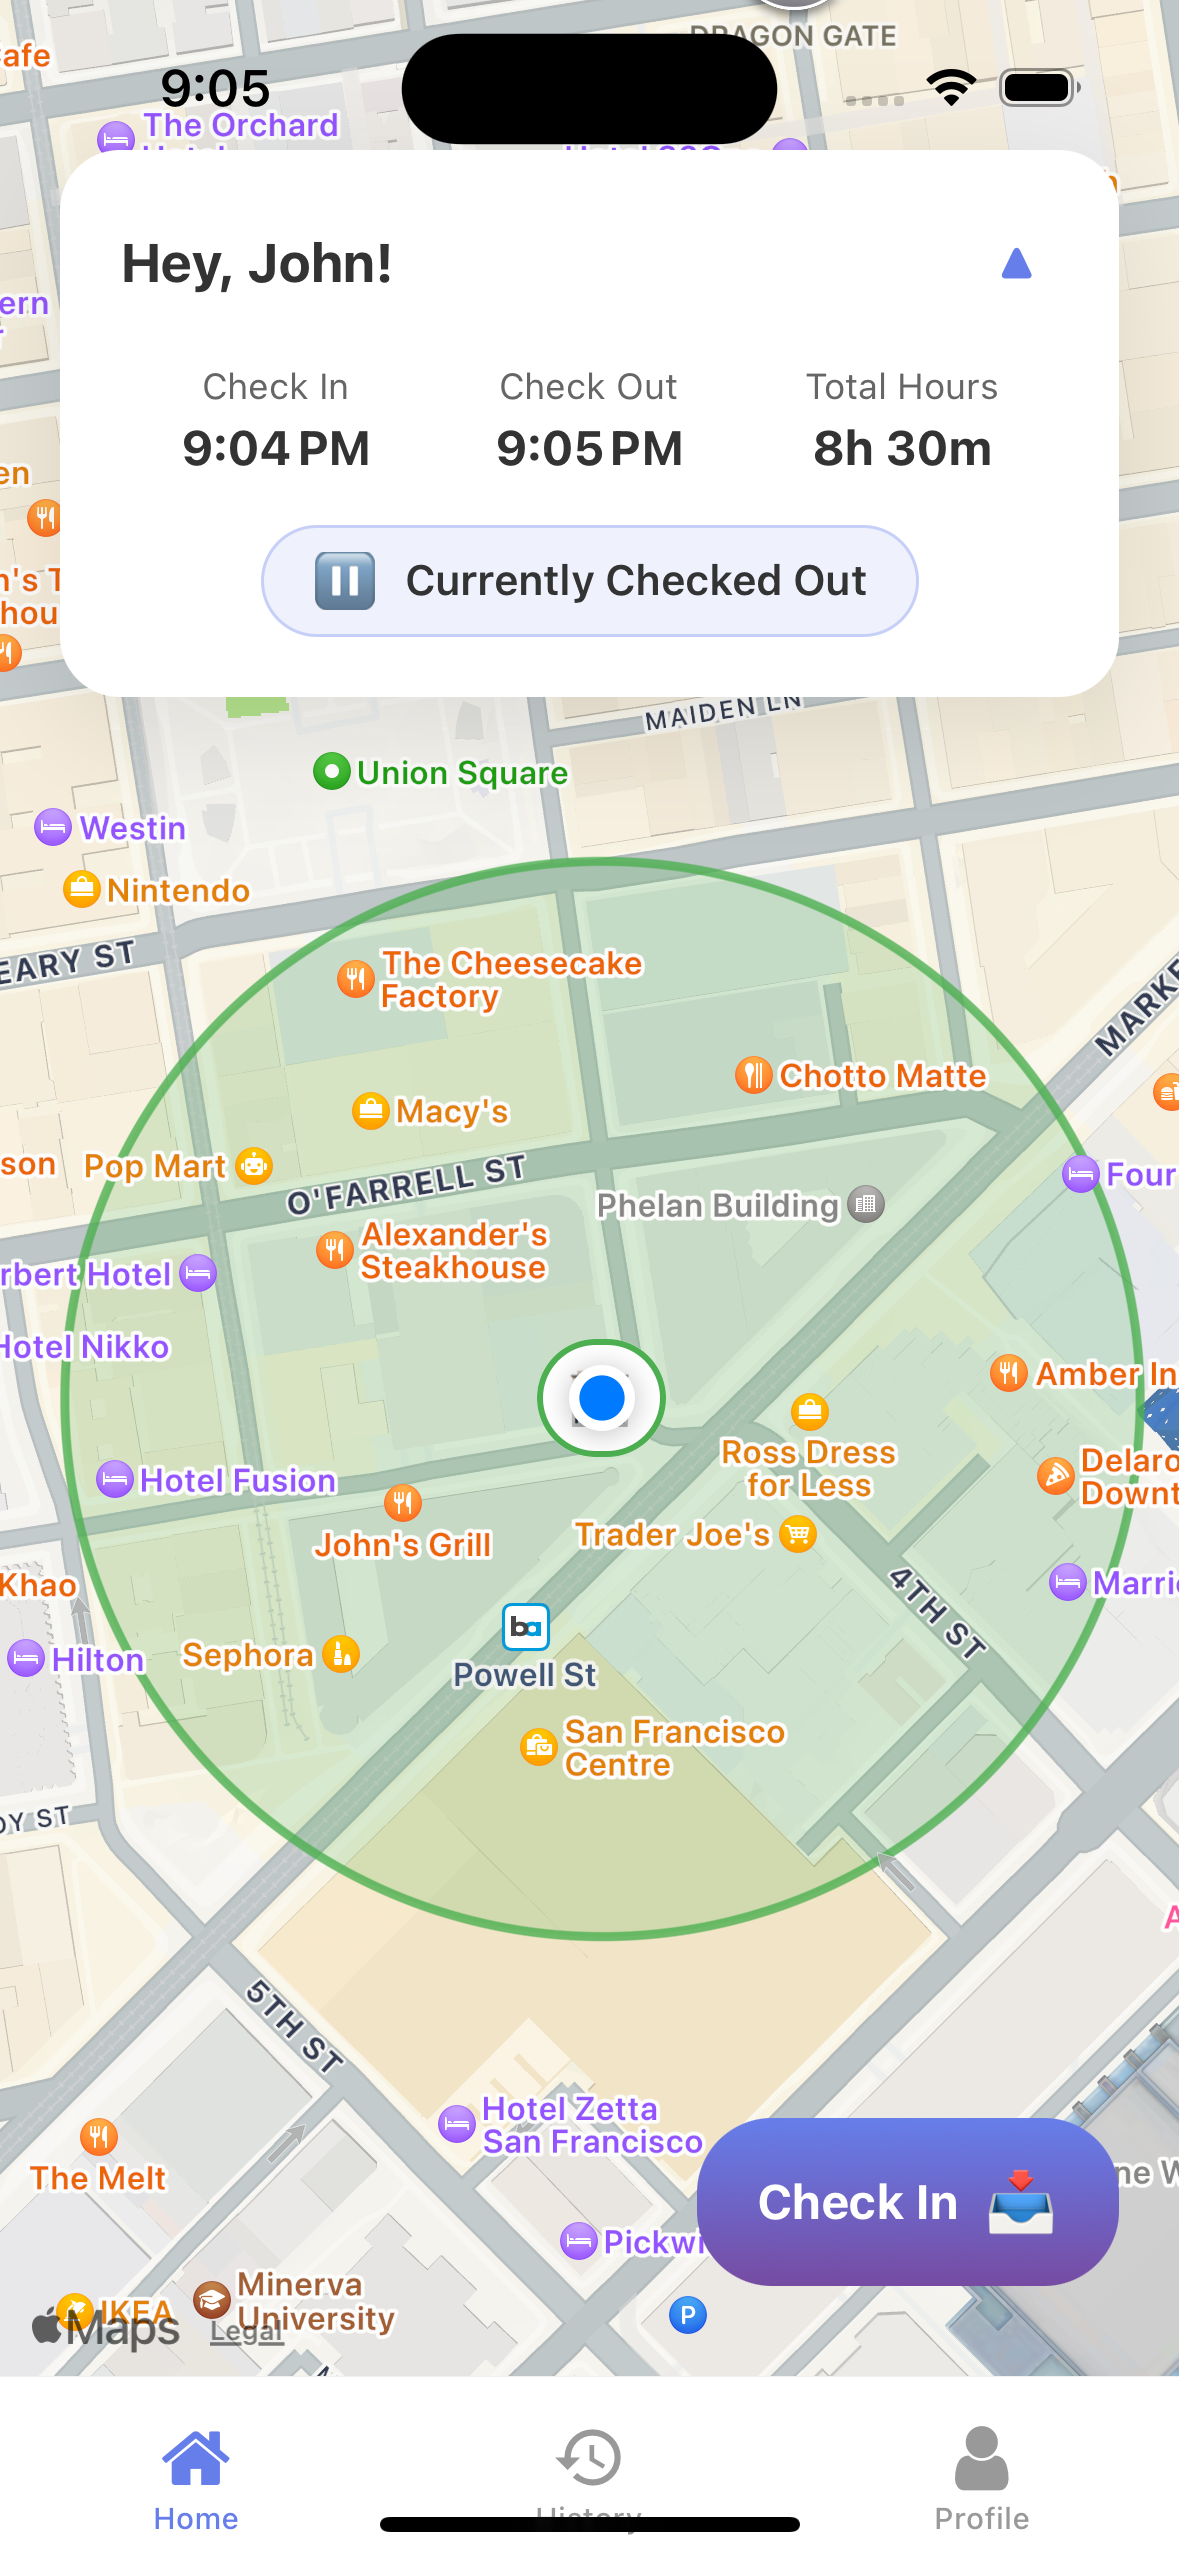
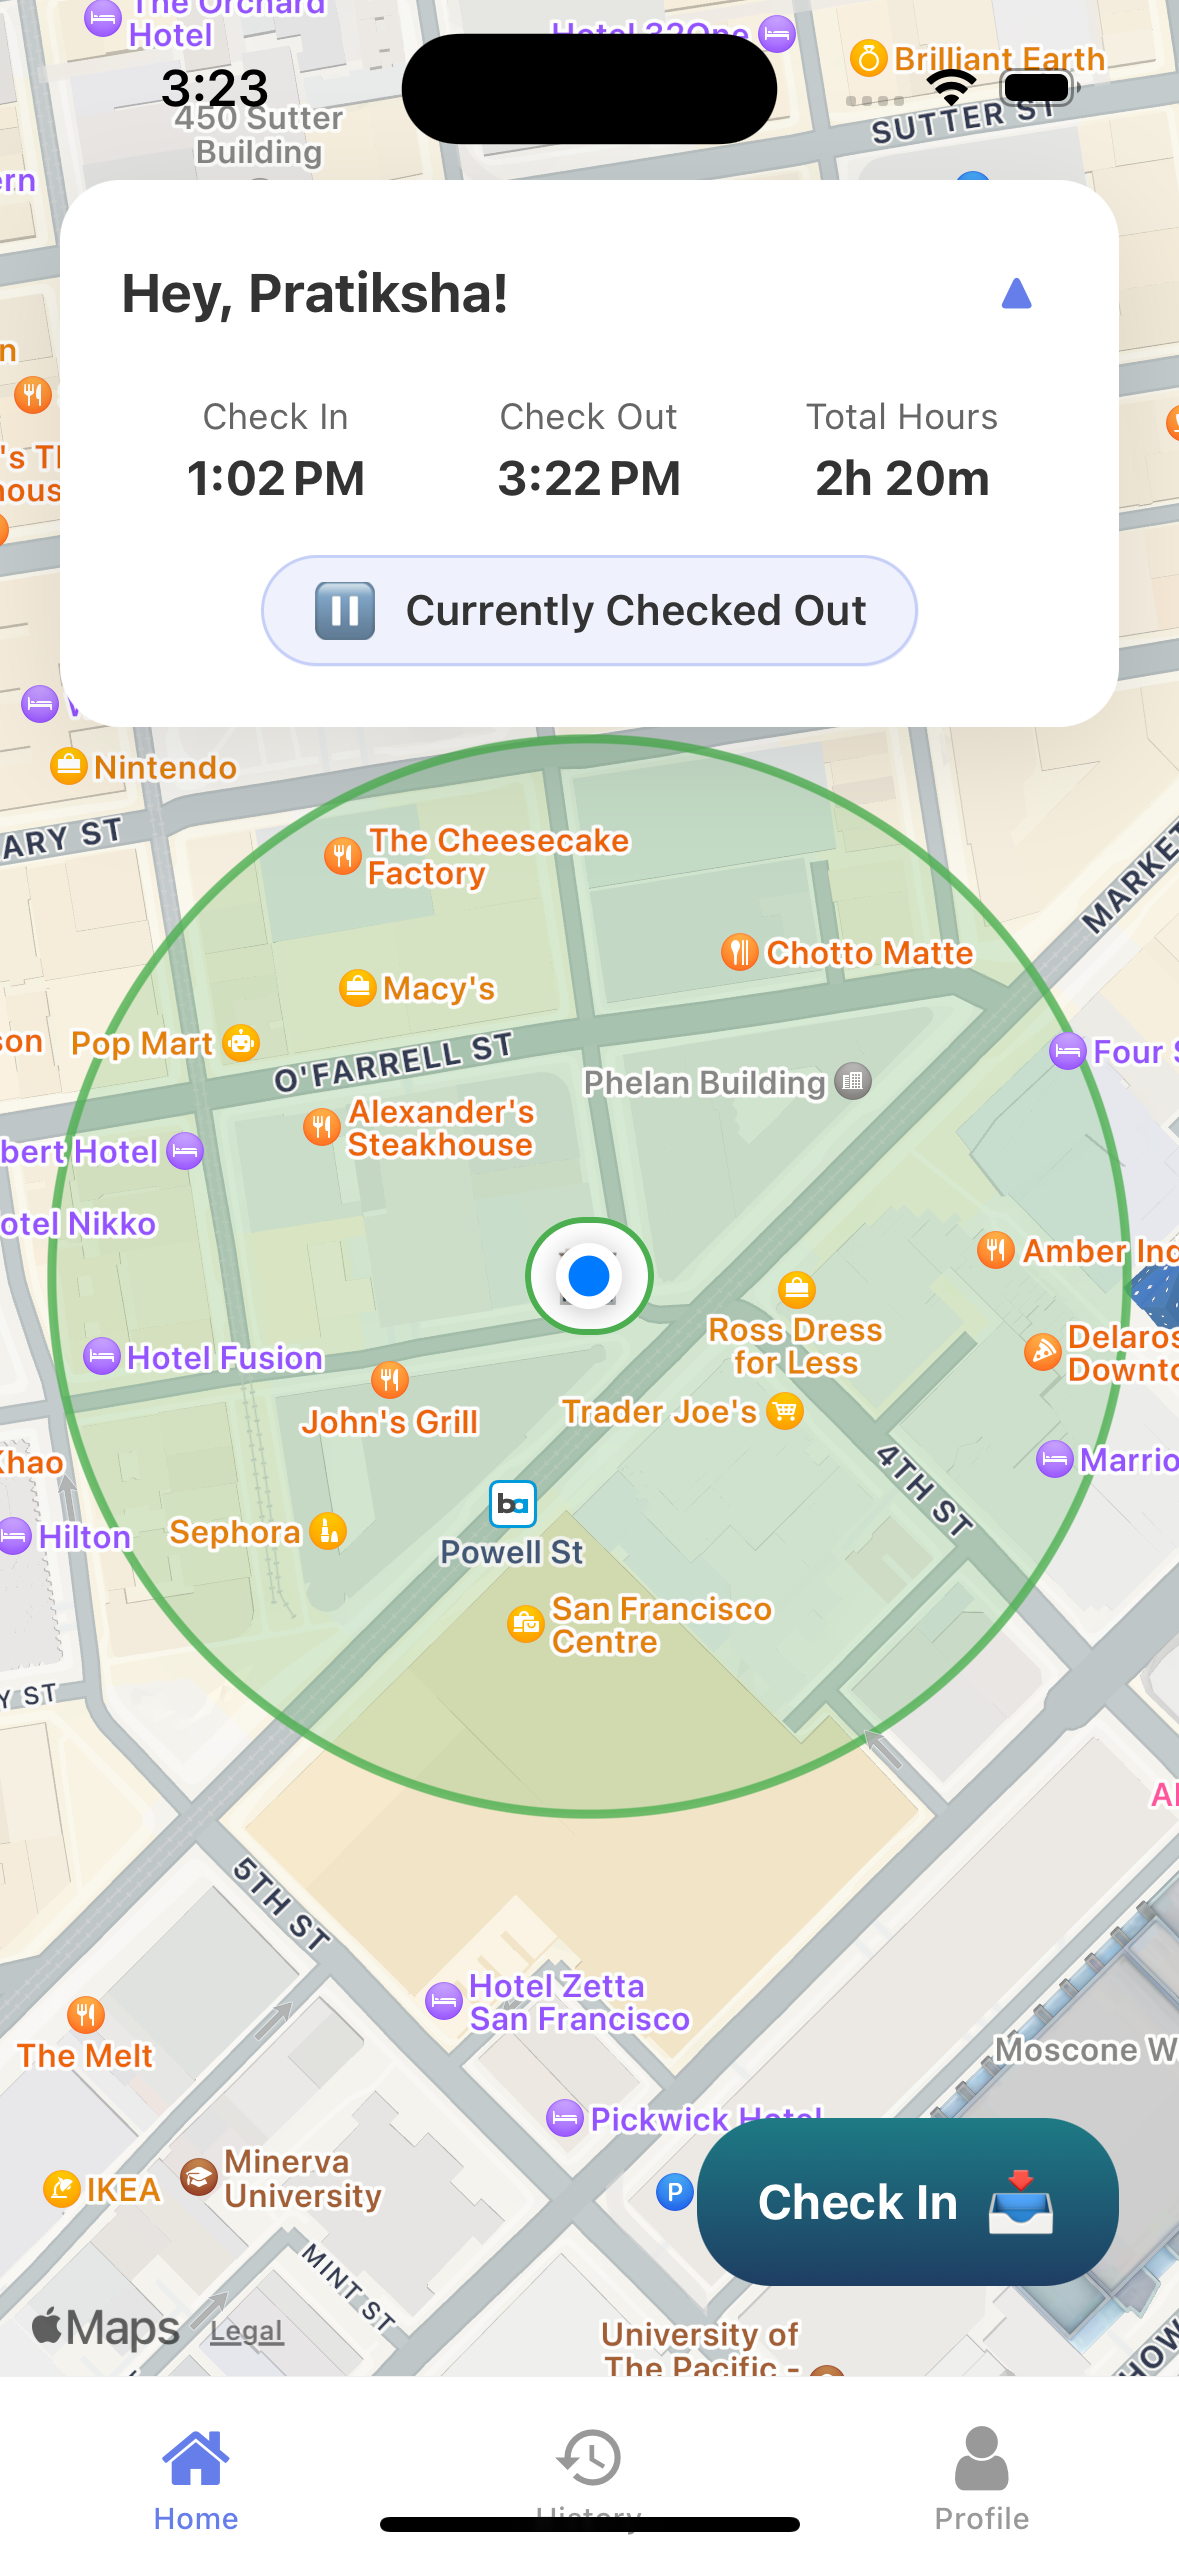
images

diff --git a/app/(tabs)/home.tsx b/app/(tabs)/home.tsx
@@ -211,7 +211,7 @@ export default function HomeScreen() {
 
   const calculateTotalHours = () => {
     // return formatTimeDifference(checkInTime, checkOutTime);
-    return "8h 30m"; // Placeholder
+    return "2h 20m"; // Placeholder
   };
 
   const getDistanceText = () => {

diff --git a/.expo/README.md b/.expo/README.md
@@ -9,6 +9,7 @@ A modern geofencing-based attendance tracking system built with React Native (Ex
   <img src="b.png" alt="Login Screen" width="200"/>
   <img src="c.png" alt="History Screen" width="200"/>
   <img src="d.png" alt="Profile Screen" width="200"/>
+  <img src="e.png" alt="Profile Screen" width="200"/>
 </div>
 
 ### App Flow
